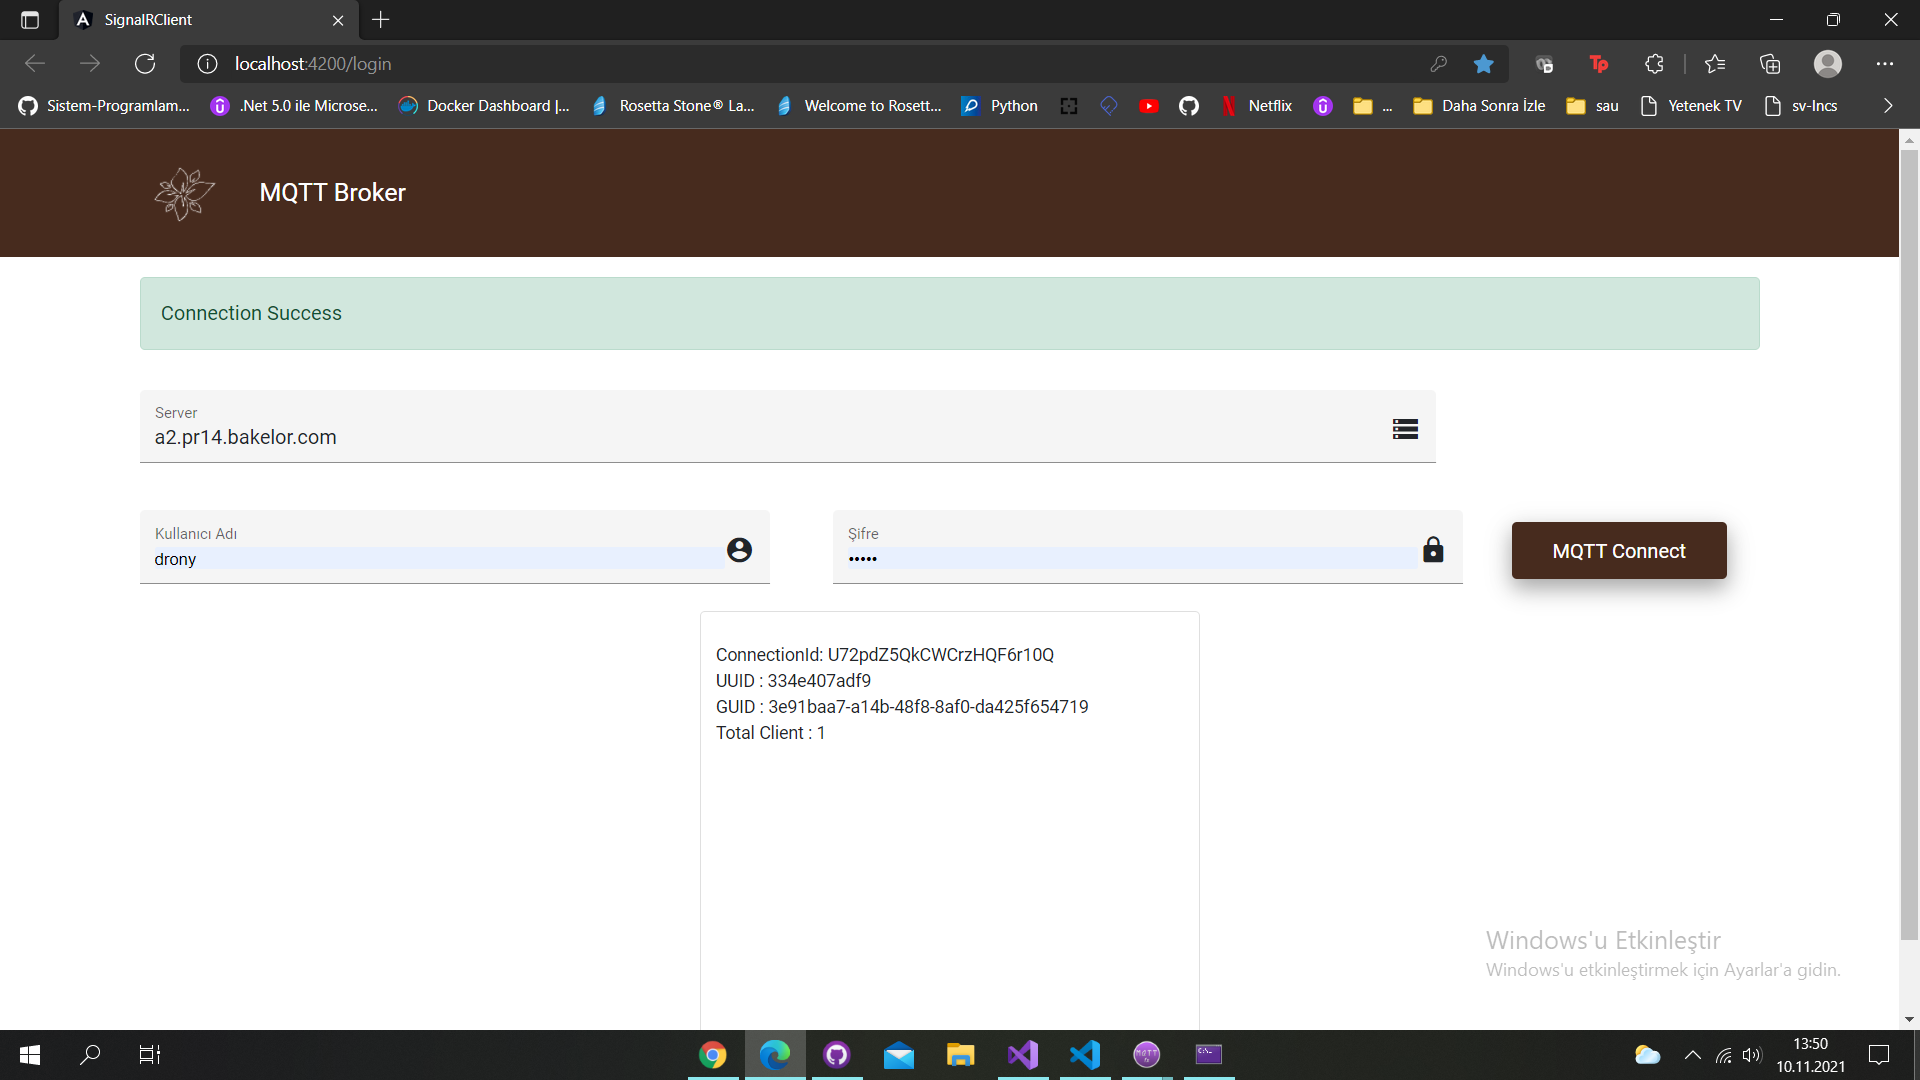
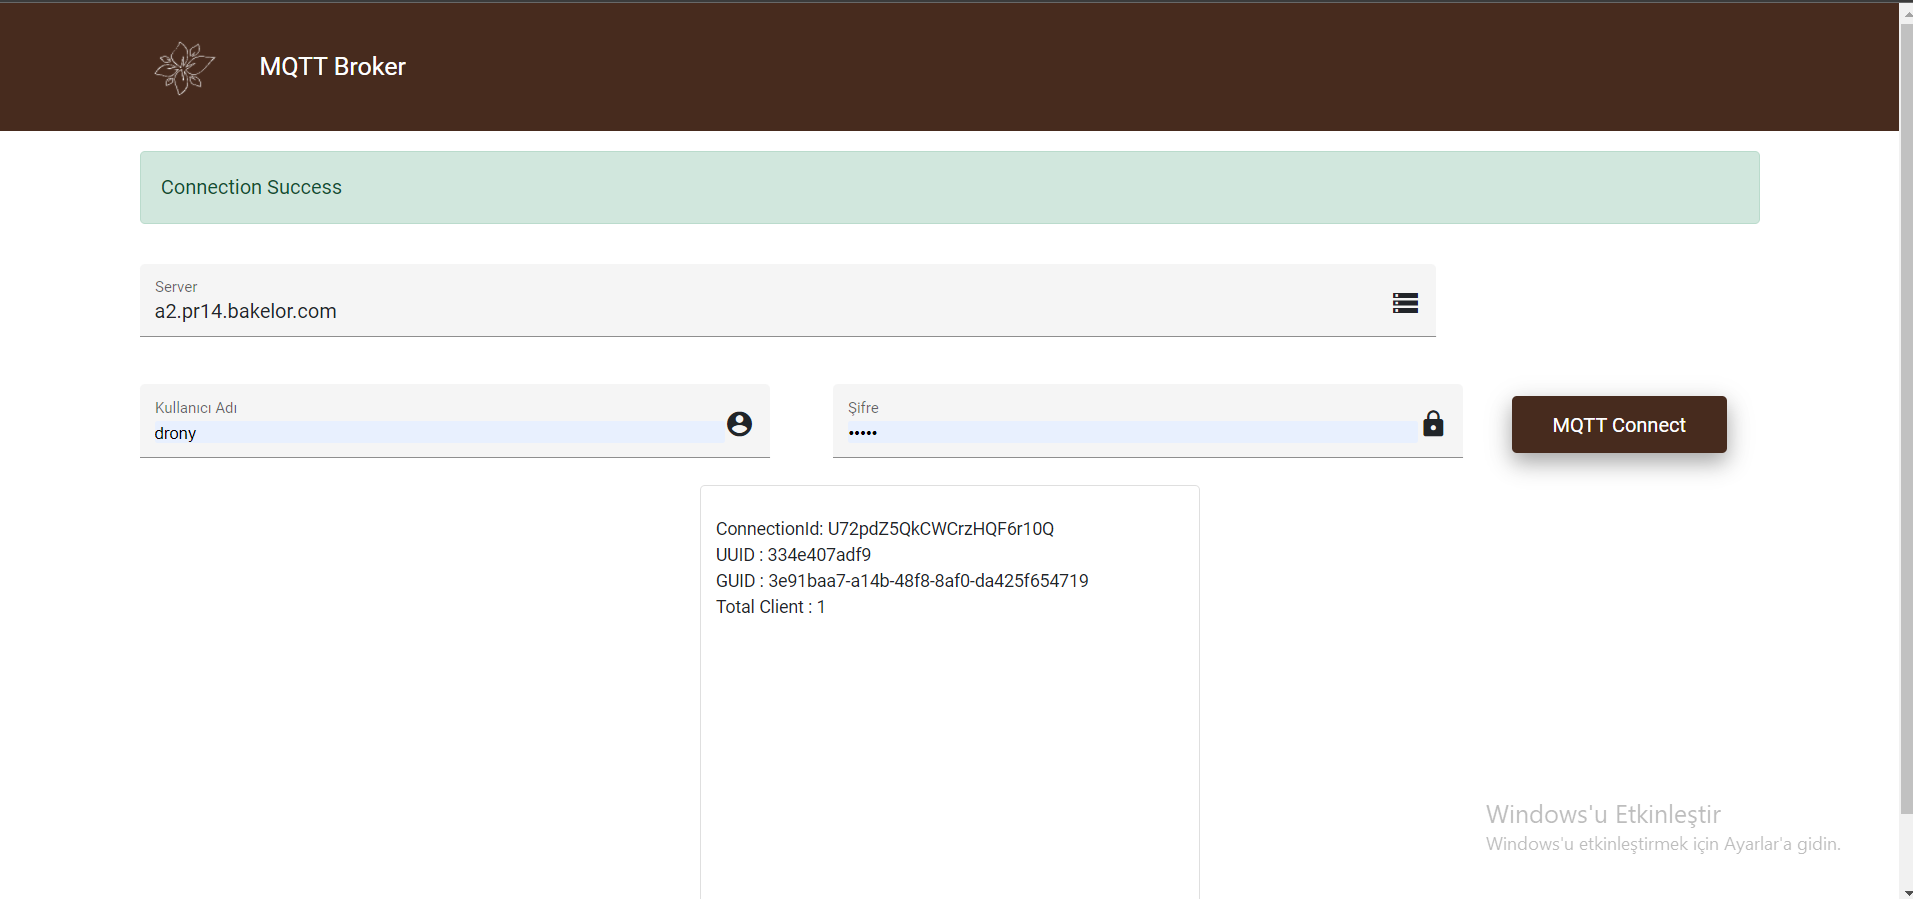
readme

diff --git a/README.md b/README.md
@@ -7,7 +7,7 @@ Angular - SignalR - MQTT
 - Ekranda dinlenen topic'e gore mesajın göndereildiği ilk saniye, mesajın gönderildiği son saniye
     arada geçen zaman, gelen mesaj sayısı, saniyede kaç mesaj geldiği, QoS leveli, ve son gönderilen mesaj yazdırılır.
 -# - 
-<img align="left" width="390px" src="./pic/1.png" />
-<img align="right"  width="390px" src="./pic/2.png" />
+<img align="left" width="500px" src="./pic/1.png" />
+<img align="right"  width="500px" src="./pic/2.png" />
 <br />
 <br />
